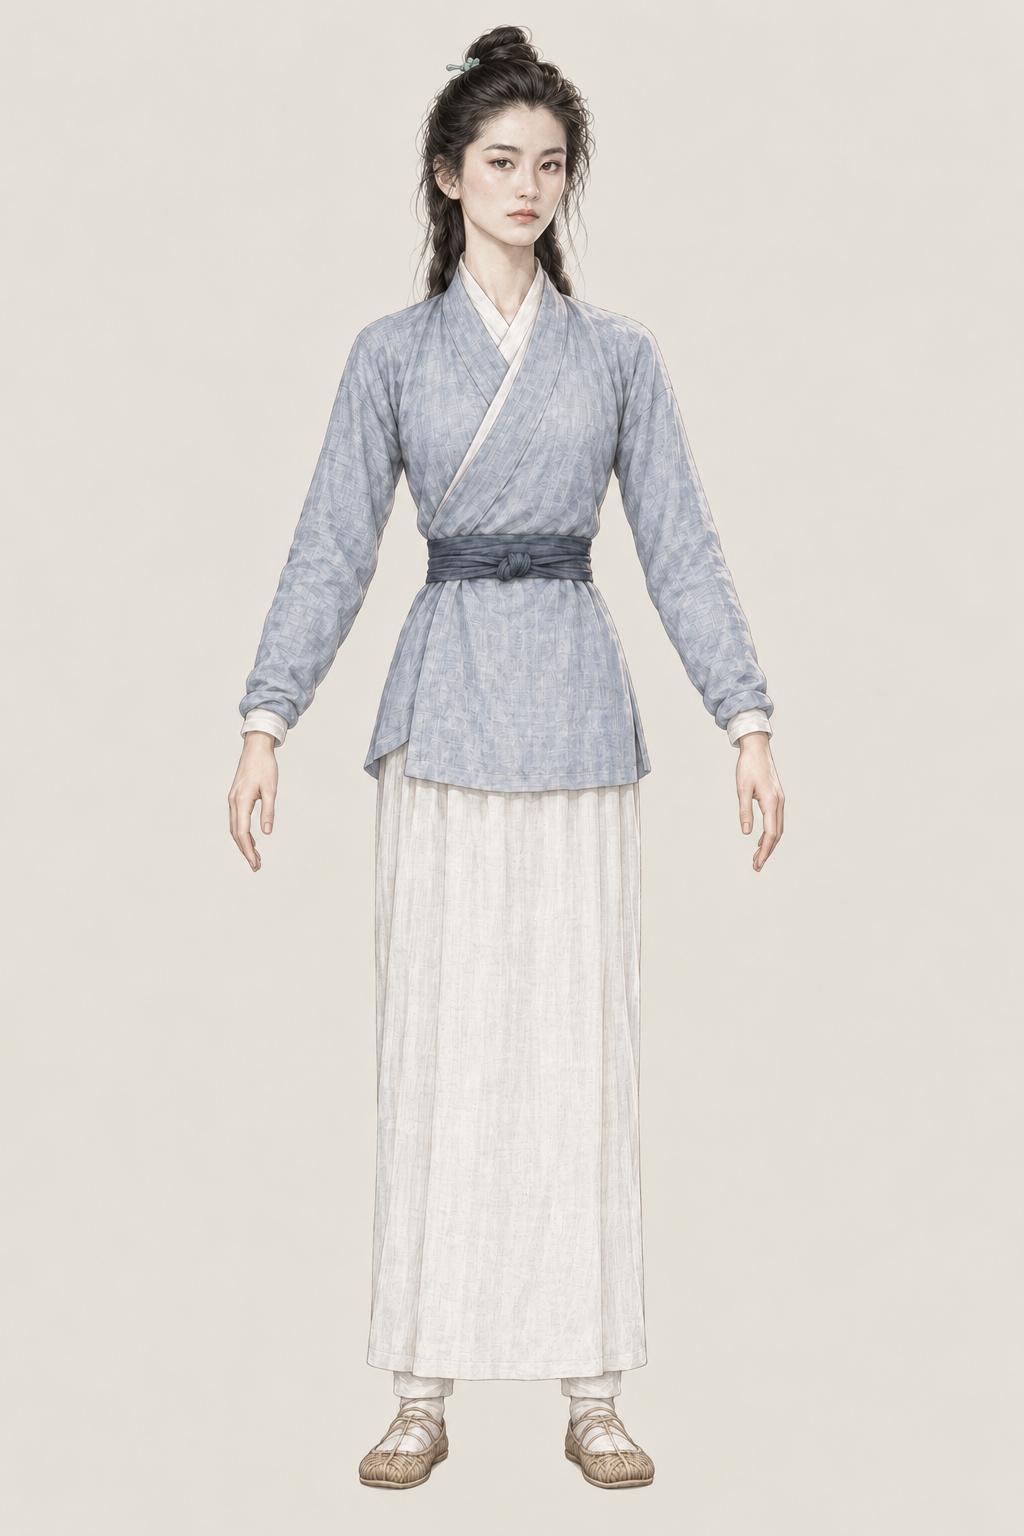
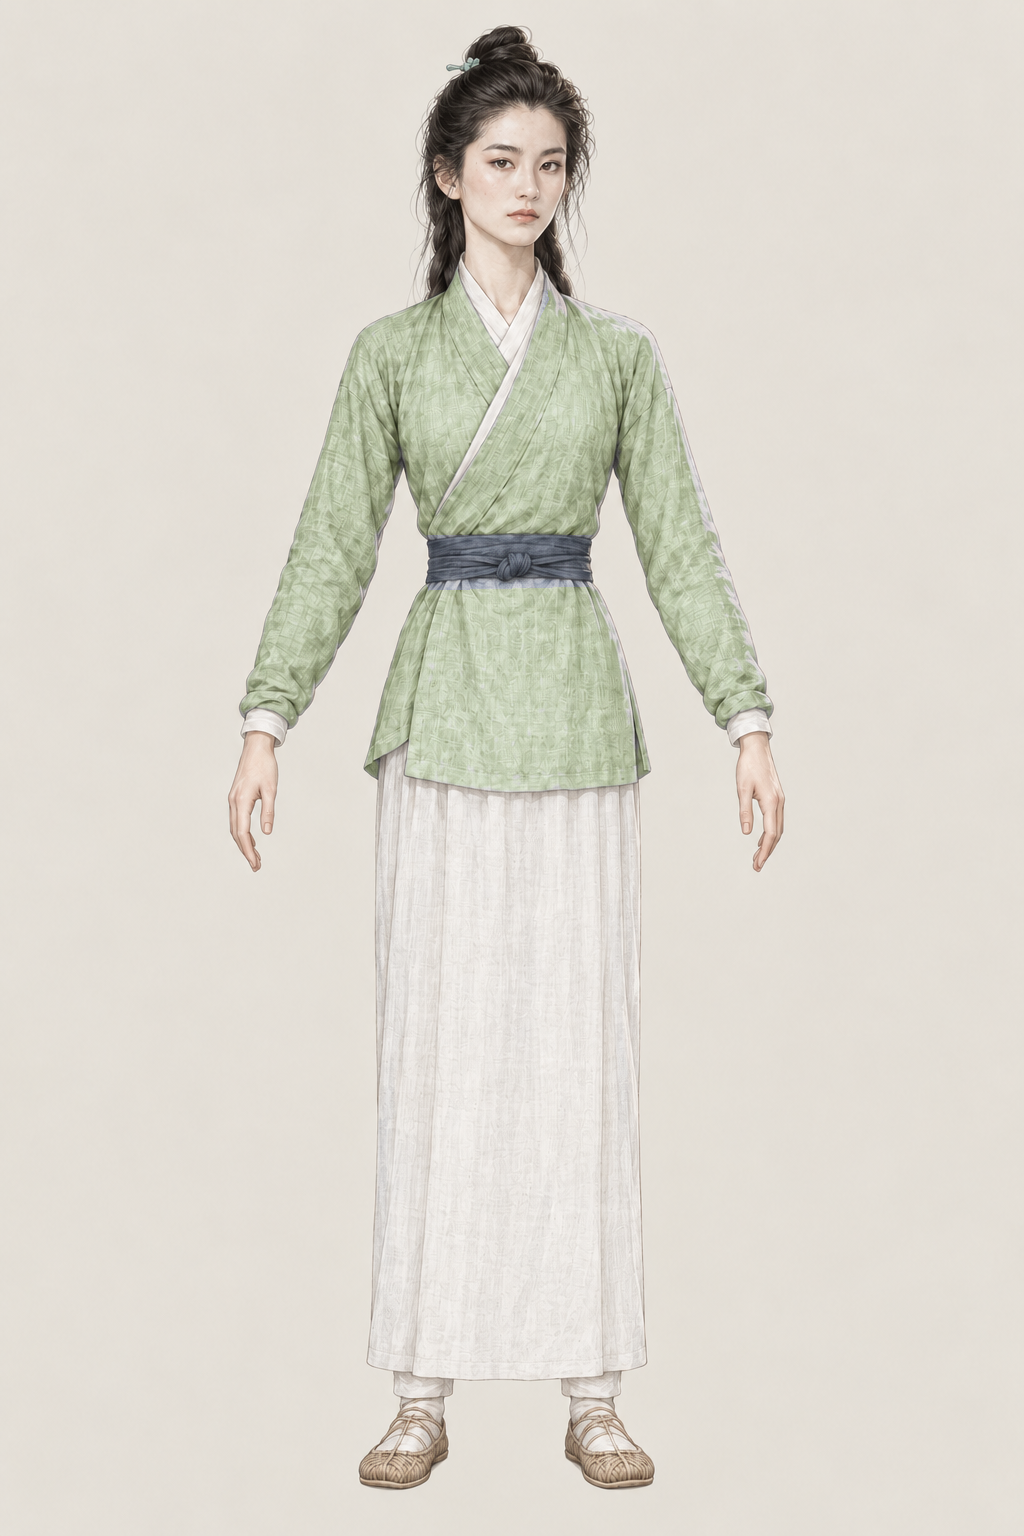
assets: AR-82 原著核对返修 阿青浅蓝上衣改原著浅绿衫
原著摘句已同步提示词；已打开验图；蒙版外0像素变化。

Executed-By: Codex gpt-6.1-sol（AR-82）

Changed region(s): [[0.2188, 0.1875, 0.75, 0.5312]]

diff --git a/assets/default/prompts/characters/ch00-yuenv/npc_aqing.md b/assets/default/prompts/characters/ch00-yuenv/npc_aqing.md
@@ -143,3 +143,7 @@ classic_ref:
 
 - 《越女剑》不分回·阿青出场：“身穿浅绿衫子”；https://www.xuges.com/wuxia/jinyong/ynj/04.htm
 - AR-82 返修约束（本节优先于历史提示词）：只将浅蓝色粗布短上衣改为浅绿色，保留每道衣褶与原布料纹理。白色内领与月白裙、深蓝腰带、腰带垂尾、发辫、竹棒、手和背景全部原样不动。不是改变款式。
+
+
+- 《越女剑》不分回·阿青出场：“身穿浅绿衫子”；https://www.xuges.com/wuxia/jinyong/ynj/04.htm
+- AR-82 返修约束（本节优先于历史提示词）：只将浅绿色粗布短上衣改为浅绿色，保留每道衣褶与原布料纹理。白色内领与月白裙、深蓝腰带、腰带垂尾、发辫、竹棒、手和背景全部原样不动。不是改变款式。
